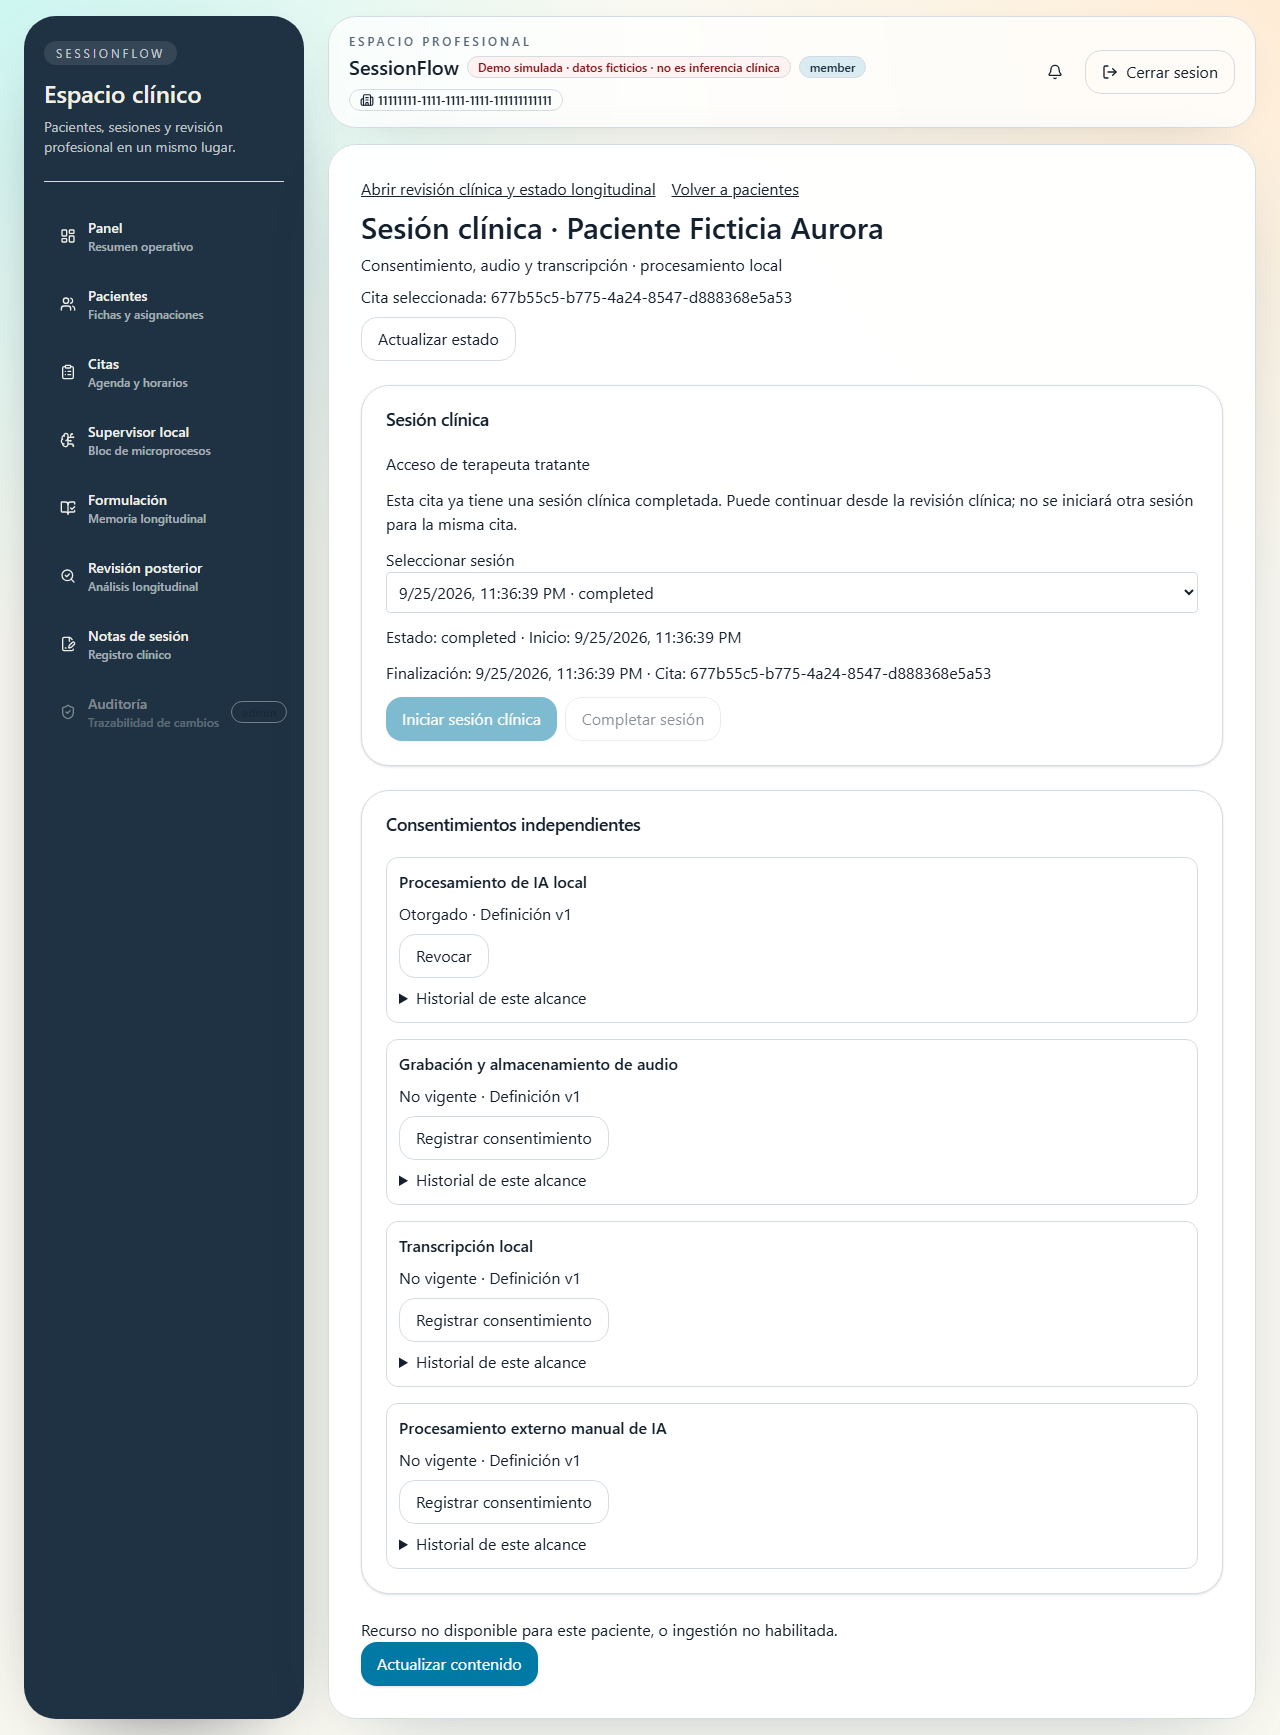
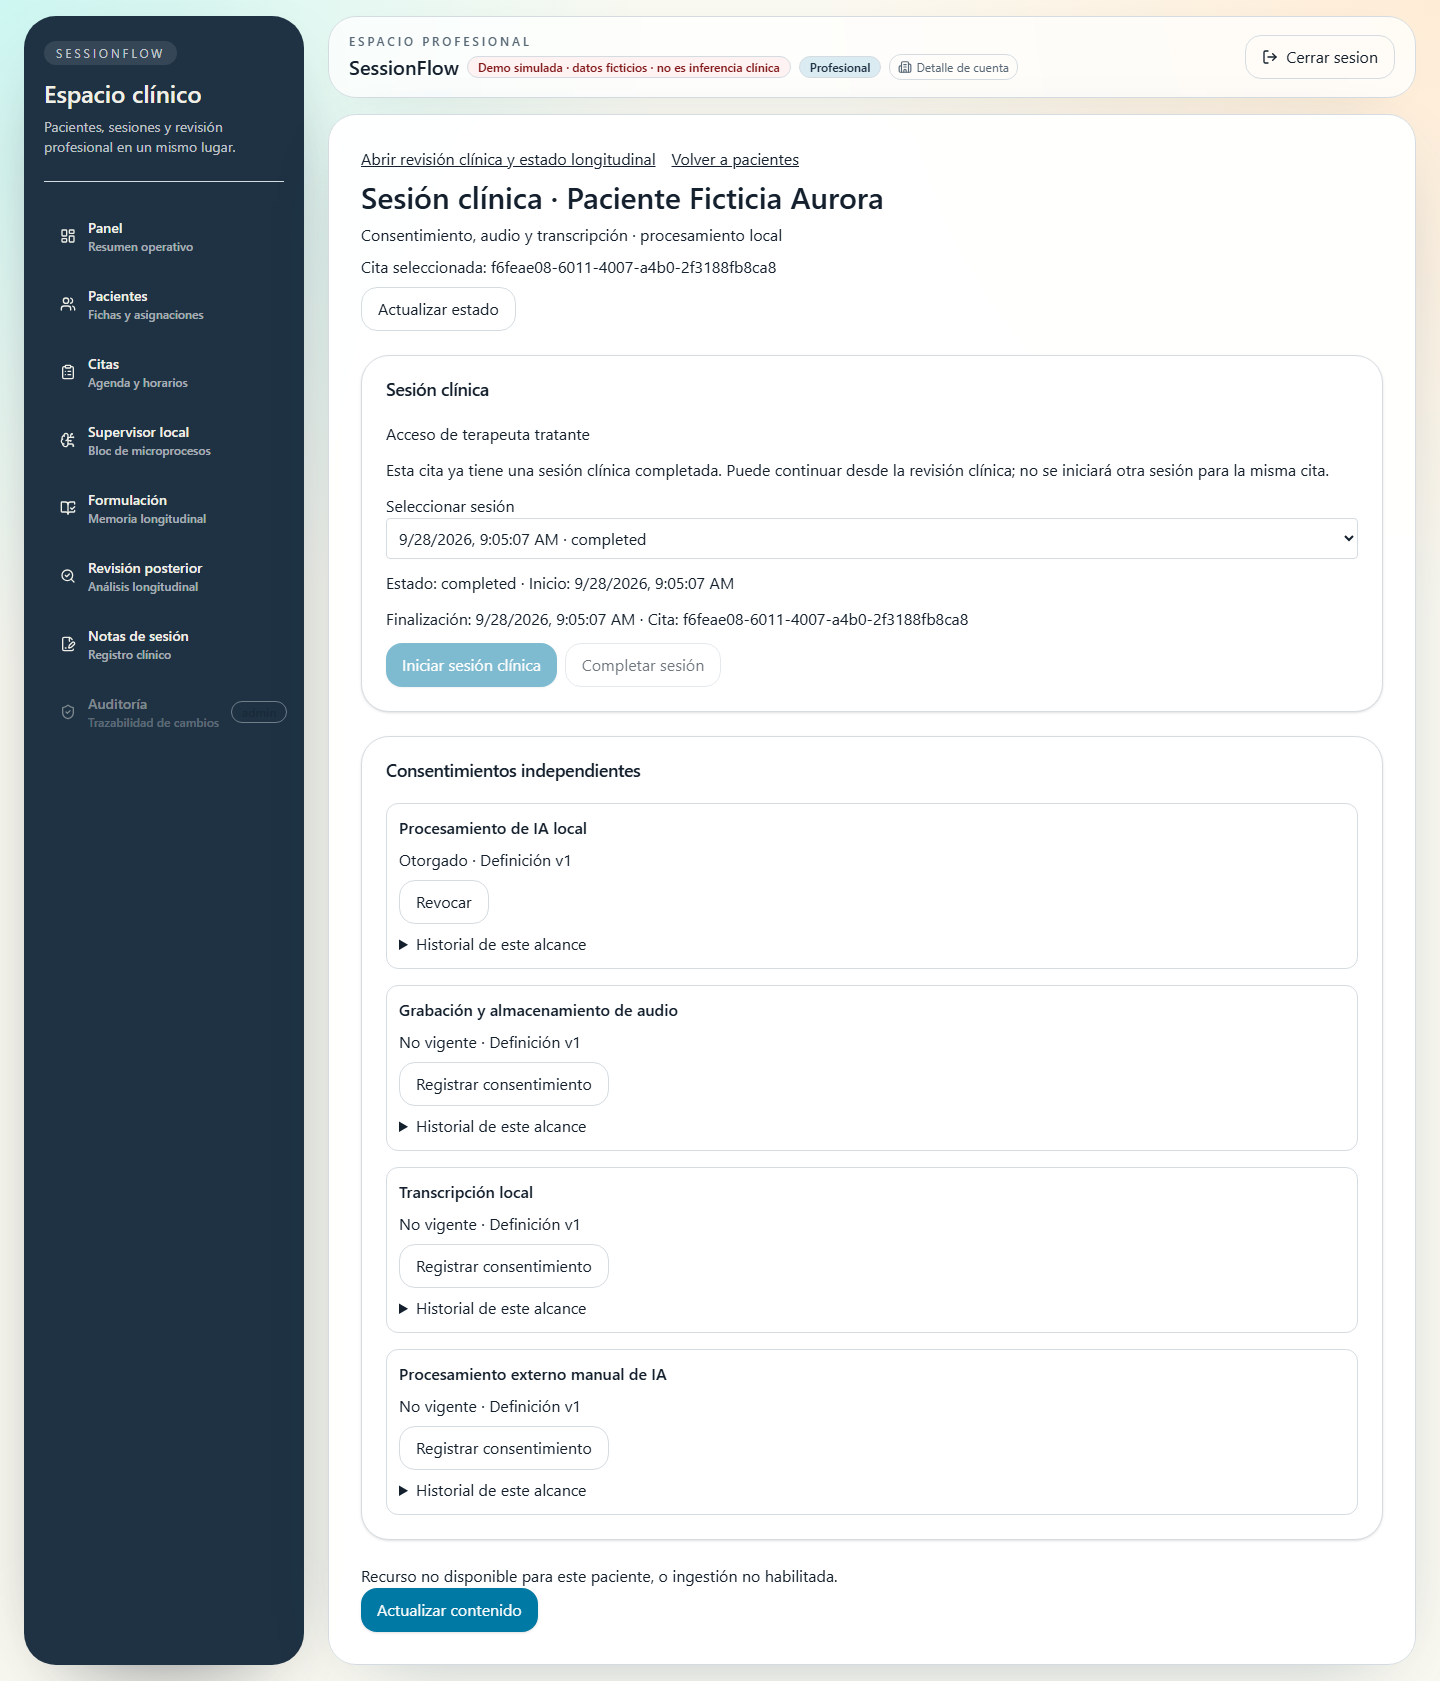
docs: refresh demo evidence and release governance

Changed region(s): [[0.0312, 0.0, 1.0, 1.0], [0.0312, 0.1237, 0.1562, 0.4331], [0.6875, 0.3712, 0.75, 0.4021]]

diff --git a/docs/PORTFOLIO_RELEASE_CHECKLIST.md b/docs/PORTFOLIO_RELEASE_CHECKLIST.md
@@ -1,0 +1,52 @@
+# Preparación de la entrega de portafolio
+
+Estado observado el 28 de septiembre de 2026. Este documento registra decisiones de publicación y triaje; no declara una release ni una licencia.
+
+## Notas propuestas para `v1.0.0-portfolio`
+
+**Título sugerido:** SessionFlow — recorrido de portafolio con revisión humana.
+
+**Resumen:** Demo ficticia desde paciente, cita y sesión hasta informe, decisión humana, estado longitudinal y auditoría. Backend Go, frontend Next.js, PostgreSQL y Redis; prueba de navegador full-stack en CI. La fixture de demo no hace inferencia clínica y el producto no está certificado para uso clínico.
+
+Antes de crear el tag o la release:
+
+- [ ] Obtener aprobación explícita del PR de cierre y fusionarlo mediante GitHub.
+- [ ] Confirmar CI y CodeQL verdes en el commit de `main` resultante.
+- [ ] Comprobar que las alertas de CodeQL #2 y #3 se cerraron por la corrección, sin descartarlas manualmente.
+- [ ] Decidir y documentar la licencia. MIT permite reutilización con atribución y sin garantía; sin licencia, el código visible permanece con todos los derechos reservados.
+- [ ] Confirmar que las capturas siguen representando la interfaz publicada y que solo contienen datos ficticios.
+- [ ] Crear `v1.0.0-portfolio` y publicar la release únicamente con autorización del propietario.
+
+## Gobierno de GitHub
+
+`main` tiene protección aplicada mediante la API de GitHub: exige PR, ramas actualizadas, resolución de conversaciones y los checks Test + Build, Lint, Race, Integration, Frontend, Transcription Python, Demo real y CodeQL. También impide force push y borrado; la protección se aplica a administradores. No exige aprobaciones de terceros (`required_approving_review_count: 0`) para que el propietario pueda mantener el proyecto mediante PR.
+
+No hay tags, releases ni licencia. Las ramas fusionadas `portfolio/final-polish` y `portfolio/sessionflow-2026-09-26` permanecen en remoto y pueden retirarse tras decisión del propietario; no se borraron.
+
+## Triaje de Dependabot
+
+Los 15 PR siguientes estaban abiertos al preparar este cierre. “Verde” significa que los checks del head observado terminaron correctamente; deberán repetirse contra la base vigente antes de integrarlos. Ninguno se fusionó ni cerró aquí.
+
+| PR | Ecosistema | Riesgo y estado observado | Siguiente paso |
+| --- | --- | --- | --- |
+| #3 upload-artifact 6→7 | Actions | Major; verde | Revisar notas de migración y agrupar con otras Actions compatibles. |
+| #7 setup-go 6→7 | Actions | Major; verde | Revisar versión del runtime de la acción. |
+| #8 setup-node 6→7 | Actions | Major; verde | Revisar versión del runtime de la acción. |
+| #15 checkout 6→7 | Actions | Major; verde | Revisar permisos y comportamiento de checkout. |
+| #4 OpenTelemetry 1.41→1.46 | Go | Lint falló: dependencia eleva Go objetivo a 1.25; linter fijado fue compilado con 1.24 | Resolver juntos toolchain y linter antes de reintentar. |
+| #6 Prometheus 1.23→1.24 | Go | Mismo fallo de toolchain/linter | Mismo tratamiento; no mezclar con este cierre. |
+| #9 go-redis 9.18→9.22 | Go | Verde; afecta integración Redis | Integrar con regresión PostgreSQL/Redis. |
+| #10 miniredis 2.37→2.39 | Go | Verde; dependencia de tests | Integrar después de #9 si sigue vigente. |
+| #11 pgx 5.7→5.11 | Go | Mismo fallo de toolchain/linter | Resolver toolchain; repetir integración real. |
+| #5 psutil 7.0→7.2 | Python | Verde; dependencia de transcripción | Integrar con prueba Python. |
+| #12 @hookform/resolvers 5.2→5.9 | npm | Verde; formularios | Integrar con suite web. |
+| #13 eslint-config-next 16.1→16.3 | npm | Frontend falló: regla de efectos React rechaza un `setState` síncrono en un efecto | Corregir el patrón señalado por lint y repetir toda la suite; no silenciar la regla. |
+| #14 @types/node 20→26 | npm | Major; verde | Revisar alineación con Node 22 y tipos usados antes de integrar. |
+| #16 zod 4.3→4.6 | npm | Verde; validación | Integrar con pruebas de formularios y contratos. |
+| #17 Tailwind 4.2→4.3 | npm | Verde; posible impacto visual | Revisar capturas y móvil además de CI. |
+
+Orden sugerido: primero los PR verdes de bajo riesgo (#5, #10, #12), después integraciones y UI (#9, #16, #17), luego Actions y majors con revisión manual; dejar #4, #6, #11 y #13 para correcciones específicas. La agrupación nueva de Dependabot reduce futuras propuestas menores y parches, pero no modifica estos PR ya abiertos.
+
+## Deuda posterior
+
+Los archivos `clinical_longitudinal_repository.go`, `clinical_strategy_merge.go`, `gira_semantic.go`, `clinical-workspace.tsx`, `session-workspace/workspace.tsx` y `cmd/server/main.go` concentran responsabilidades. Se dejaron fuera de este PR porque no eran necesarios para corregir las brechas verificadas. Los selectores grandes y la simplificación del panel clínico siguen descritos en el README.

diff --git a/README.md b/README.md
@@ -1,6 +1,7 @@
 # SessionFlow
 
 [![CI](https://github.com/ferchox920/SaaS-Psych/actions/workflows/ci.yml/badge.svg)](https://github.com/ferchox920/SaaS-Psych/actions/workflows/ci.yml)
+[![CodeQL](https://github.com/ferchox920/SaaS-Psych/actions/workflows/codeql.yml/badge.svg)](https://github.com/ferchox920/SaaS-Psych/actions/workflows/codeql.yml)
 
 SessionFlow es una aplicación multi-tenant para organizar pacientes, citas y sesiones clínicas. Sus informes y propuestas asistidas por IA requieren revisión humana antes de incorporarse a la memoria longitudinal. Es un proyecto de portafolio técnico: la demostración usa exclusivamente datos ficticios y el software **no sustituye el juicio clínico**.
 
@@ -12,7 +13,7 @@ Audio y transcripción local son opcionales y están desactivados por defecto. E
 
 ## Capturas reales
 
-Tomadas del frontend contra API, PostgreSQL y seed ficticio locales; no son maquetas.
+Actualizadas el 28 de septiembre de 2026 desde el frontend contra API, PostgreSQL, Redis y seed ficticio locales; no son maquetas. La auditoría muestra primero una explicación legible y conserva los códigos y metadatos en «Detalle técnico».
 
 | Acceso | Panel | Revisión humana |
 | --- | --- | --- |
